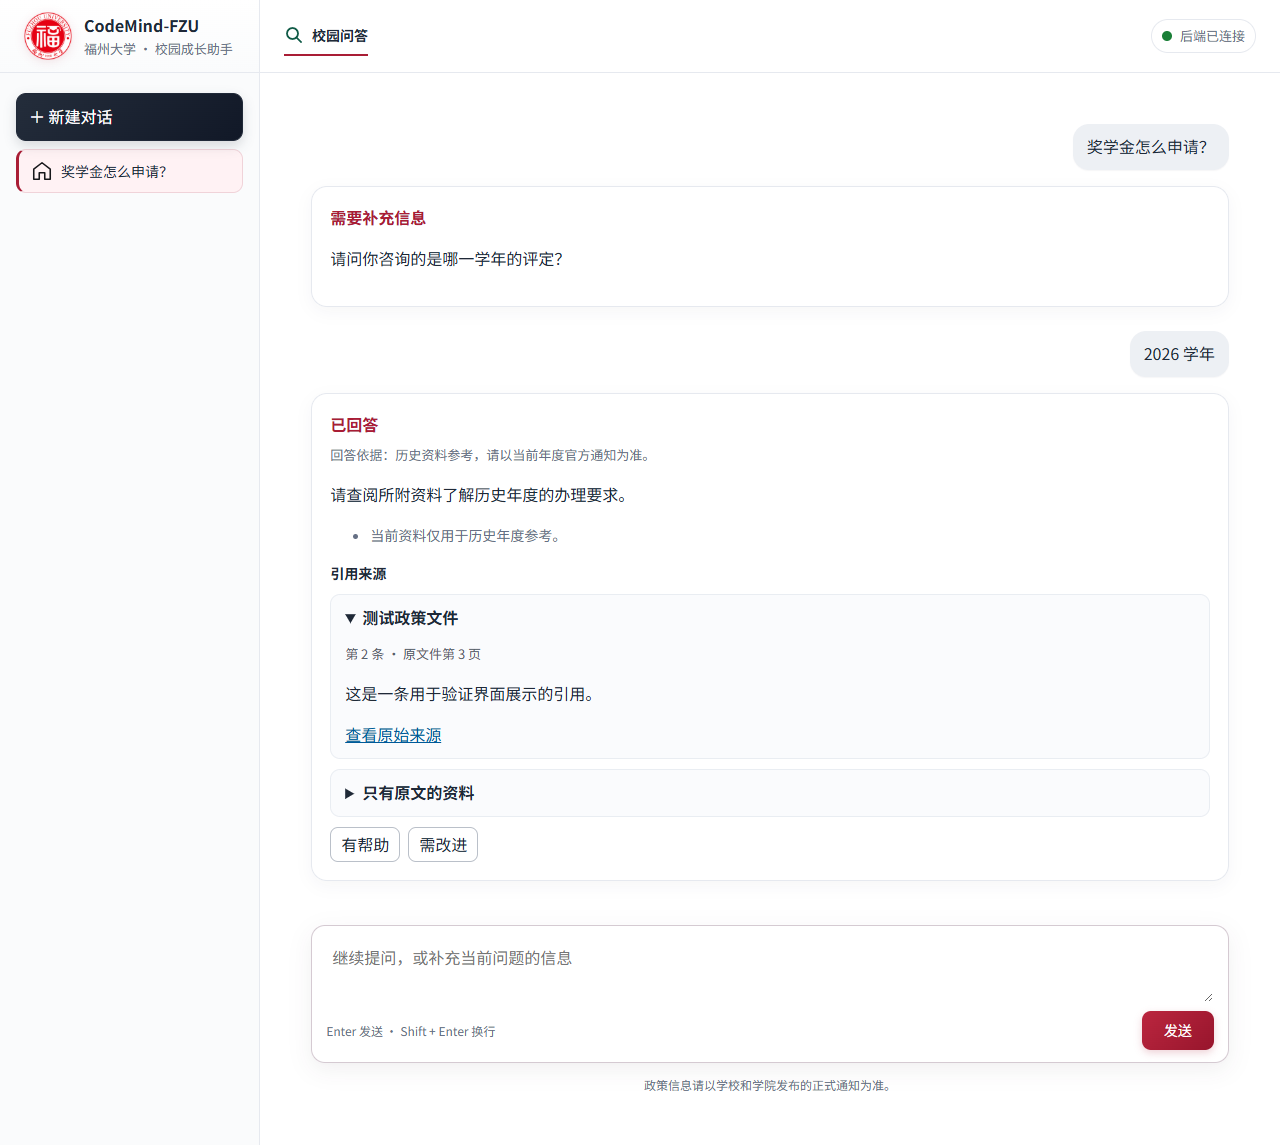
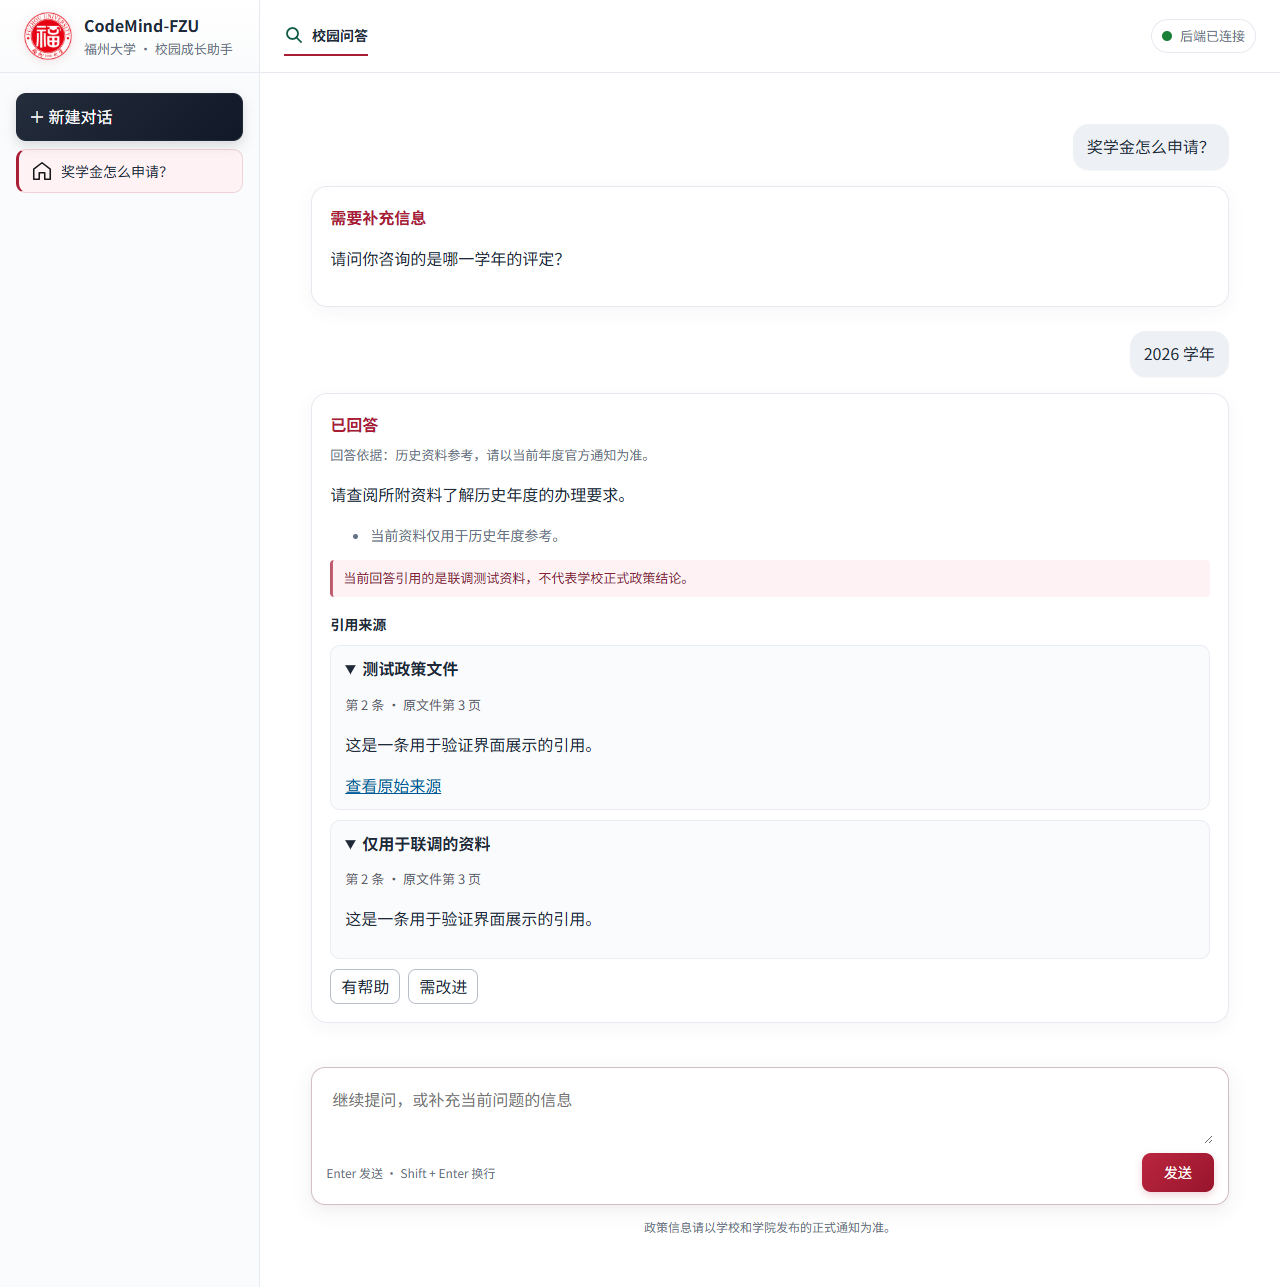
docs(student): refresh PR 54 verification evidence

diff --git a/docs/assignment-03/beta/evidence/student-stage1/fastapi-mock-validation.md b/docs/assignment-03/beta/evidence/student-stage1/fastapi-mock-validation.md
@@ -1,0 +1,50 @@
+# Beta 第一阶段学生端验证记录
+
+验证时间为 2026-11-25 19:18（北京时间）。测试基于契约修复提交 `1b07869`，环境为 Windows、Microsoft Edge、Node.js 24.15.0 和 Python 3.13.3。
+
+## 前端接口模拟回归
+
+按前端 README 运行 `frontend/tests/student-browser.js`。脚本使用 Playwright 的 `page.route()` 为 `/api/v1/health` 和 `/api/v1/ask` 提供测试响应。结果为「学生端浏览器回归通过（三种状态、四场景入口、多轮、引用、错误恢复、刷新与新建会话）」。
+
+[历史引用截图](historical-citation.png)截取自当前浏览器回归的历史回答场景。两条引用的 `source_url` 分别是 `https://www.fzu.edu.cn/` 和 `https://example.invalid/policy`。前者展示原始来源入口，后者是联调测试占位地址，页面展示资料和定位并隐藏跳转入口。这两条引用均为测试样例。脚本另有一项失败用例，覆盖 `source_url: null` 时的格式错误提示和输入保留。
+
+## Edge 直连本地 FastAPI Mock
+
+在仓库根目录启动 FastAPI Mock。在另一终端启动 Vite。
+
+```powershell
+& ./.venv/Scripts/python.exe -m uvicorn backend.app.dev:app --host 127.0.0.1 --port 8000
+```
+
+```powershell
+npm.cmd run dev --prefix frontend -- --strictPort
+```
+
+本次复测复用了按上述方式启动的 FastAPI 进程。启动日志如下。
+
+```text
+INFO:     Started server process [32264]
+INFO:     Waiting for application startup.
+INFO:     Application startup complete.
+INFO:     Uvicorn running on http://127.0.0.1:8000 (Press CTRL+C to quit)
+```
+
+打开 Edge 的新会话，访问 `http://127.0.0.1:5173/?preview=1`，登录前在开发者工具的「网络」面板开始记录。进入工作台后，先用按钮发送「申请校级奖学金需要什么条件？」，再用 Enter 发送「我想继续咨询申请材料。」。本次独立浏览器会话的请求经 Vite 代理到 FastAPI，未注册 Playwright 路由拦截。
+
+| 浏览器请求 | 响应时间（UTC） | HTTP | 请求会话 ID | 响应 |
+| --- | --- | --- | --- | --- |
+| `GET /api/v1/health` | `11:18:04.966597Z` | 200 | — | `status: ok` |
+| 首轮 `POST /api/v1/ask` | `11:18:05.248861Z` | 200 | `null` | `answered`、`current_policy`、`MOCK_AGENT`，返回会话 A |
+| 次轮 `POST /api/v1/ask` | `11:18:05.300685Z` | 200 | 会话 A | `answered`、`current_policy`、`MOCK_AGENT`，返回同一个会话 A |
+
+会话 A 为 `5930f362-6d50-4621-9ee8-4fadd2b40b98`。两次问答的 `request_id` 分别为 `79369489-9875-46cb-bae8-a57e9eed7bf4` 和 `23fc9c26-9919-4cb3-972c-610a6160a80b`。
+
+同次验证的 Uvicorn 访问日志如下。
+
+```text
+INFO:     127.0.0.1:1725 - "GET /api/v1/health HTTP/1.1" 200 OK
+INFO:     127.0.0.1:1727 - "POST /api/v1/ask HTTP/1.1" 200 OK
+INFO:     127.0.0.1:1728 - "POST /api/v1/ask HTTP/1.1" 200 OK
+```
+
+[本地 Mock 多轮问答截图](alpha-mock-multi-turn.png)展示两轮回复的「模拟回答」标记。前端隐藏了模拟回复的政策依据标签。真实 Qwen 和审核资料联调属于第二阶段。
